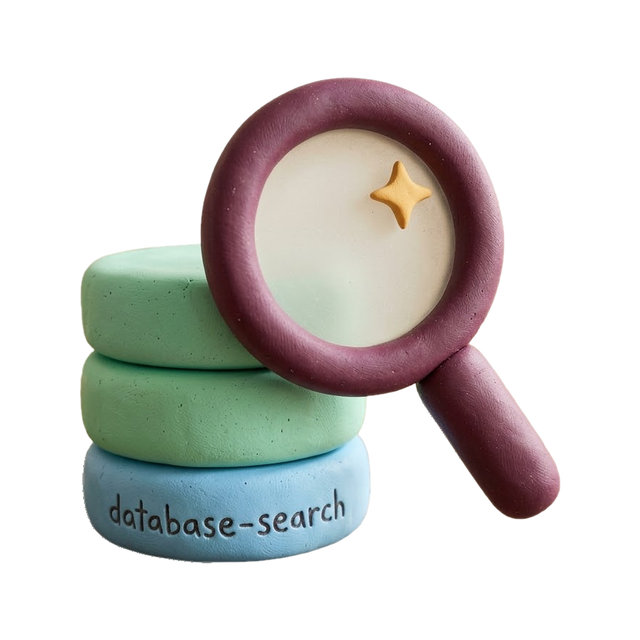
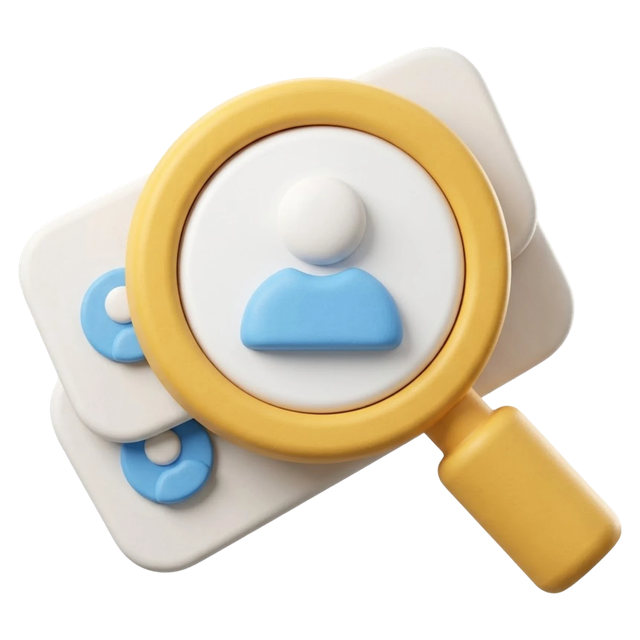
Clay v2: database search as people search (magnifier + profiles)

diff --git a/docs/CLAY-PROMPTS-V2.md b/docs/CLAY-PROMPTS-V2.md
@@ -75,10 +75,18 @@ off-white = paper, neutral parts.
 > Subject: a very chunky, thick rounded infinity loop, turned about 30° and tilted back so it shows depth, compact (about 1.4 times as wide as tall). The loop is one continuous twisted band: the crossing in the middle is clearly visible, one strand passing over the other. A gold briefcase about a third of the loop's height sits in front of the lower right curve, never covering the crossing. Sky blue loop (#6CB8F0), gold briefcase (#FFC94D) with a white clasp.
 
 **slots-full** (All job slots are in use)
-> Subject: a wide rounded tray with three slots, each holding an upright wide job card, all full; a round plus badge about a third of the tray's height sits in front of its right end. Off-white tray (#F4F1EC), mint cards (#7FD8B4), a coral plus badge (#F06A6F) with a white plus.
+> ✅ Round 2 approved (2026-10-30): caramel job cards, briefcase, sky plus floating front-right. Awaiting the background-removed file.
+>
+> Round 1: finish and angle right. Red disc + white plus reads as first aid / medical. Blank mint cards read as files, not jobs (jobs are caramel elsewhere). Badge glued to the tray's face. Not installed.
+>
+> Subject: a wide rounded tray with three slots, each holding an upright wide job card, filled to the brim, the front card carrying a raised white briefcase glyph. A round badge with a raised plus, about a third of the tray's height, floats just in front of the tray's lower right, not attached to it. Off-white tray (#F4F1EC), caramel cards (#E0A76A), a sky blue badge (#6CB8F0) with a white plus. No red.
 
 **database** (Database credits, database offers)
-> Subject: a short stack of three thick rounded discs (a database cylinder), with a magnifying glass about a third of its height standing in front of its lower right. Sky blue discs (#6CB8F0), gold magnifier ring (#FFC94D), white lens.
+> ✅ Round 2 approved (2026-10-30): reads as "find a person in a pool". Minor: the magnifier hides most of the cards' avatars, and the cards sit at a different tilt from the magnifier. If redone, fan the cards out to the left so each avatar shows whole. Installed as database-search.png.
+>
+> Round 1: finish right, but a database cylinder is a cliché and says "data", not "people". apna Database is candidate search. Concept changed.
+>
+> Subject: a chunky magnifying glass, tilted, its round lens framing a raised person (round head, rounded shoulders) inside it; behind it, two wide rounded profile cards fanned out, each with a small raised avatar circle, so the magnifier picks one person out of many. Gold magnifier ring and handle (#FFC94D), white lens, sky blue person (#6CB8F0) with a white head, off-white cards (#F4F1EC) with sky blue avatars. The magnifier is the hero; the cards are about two thirds of its height.
 
 ## C · White pop-ups (product)
 
